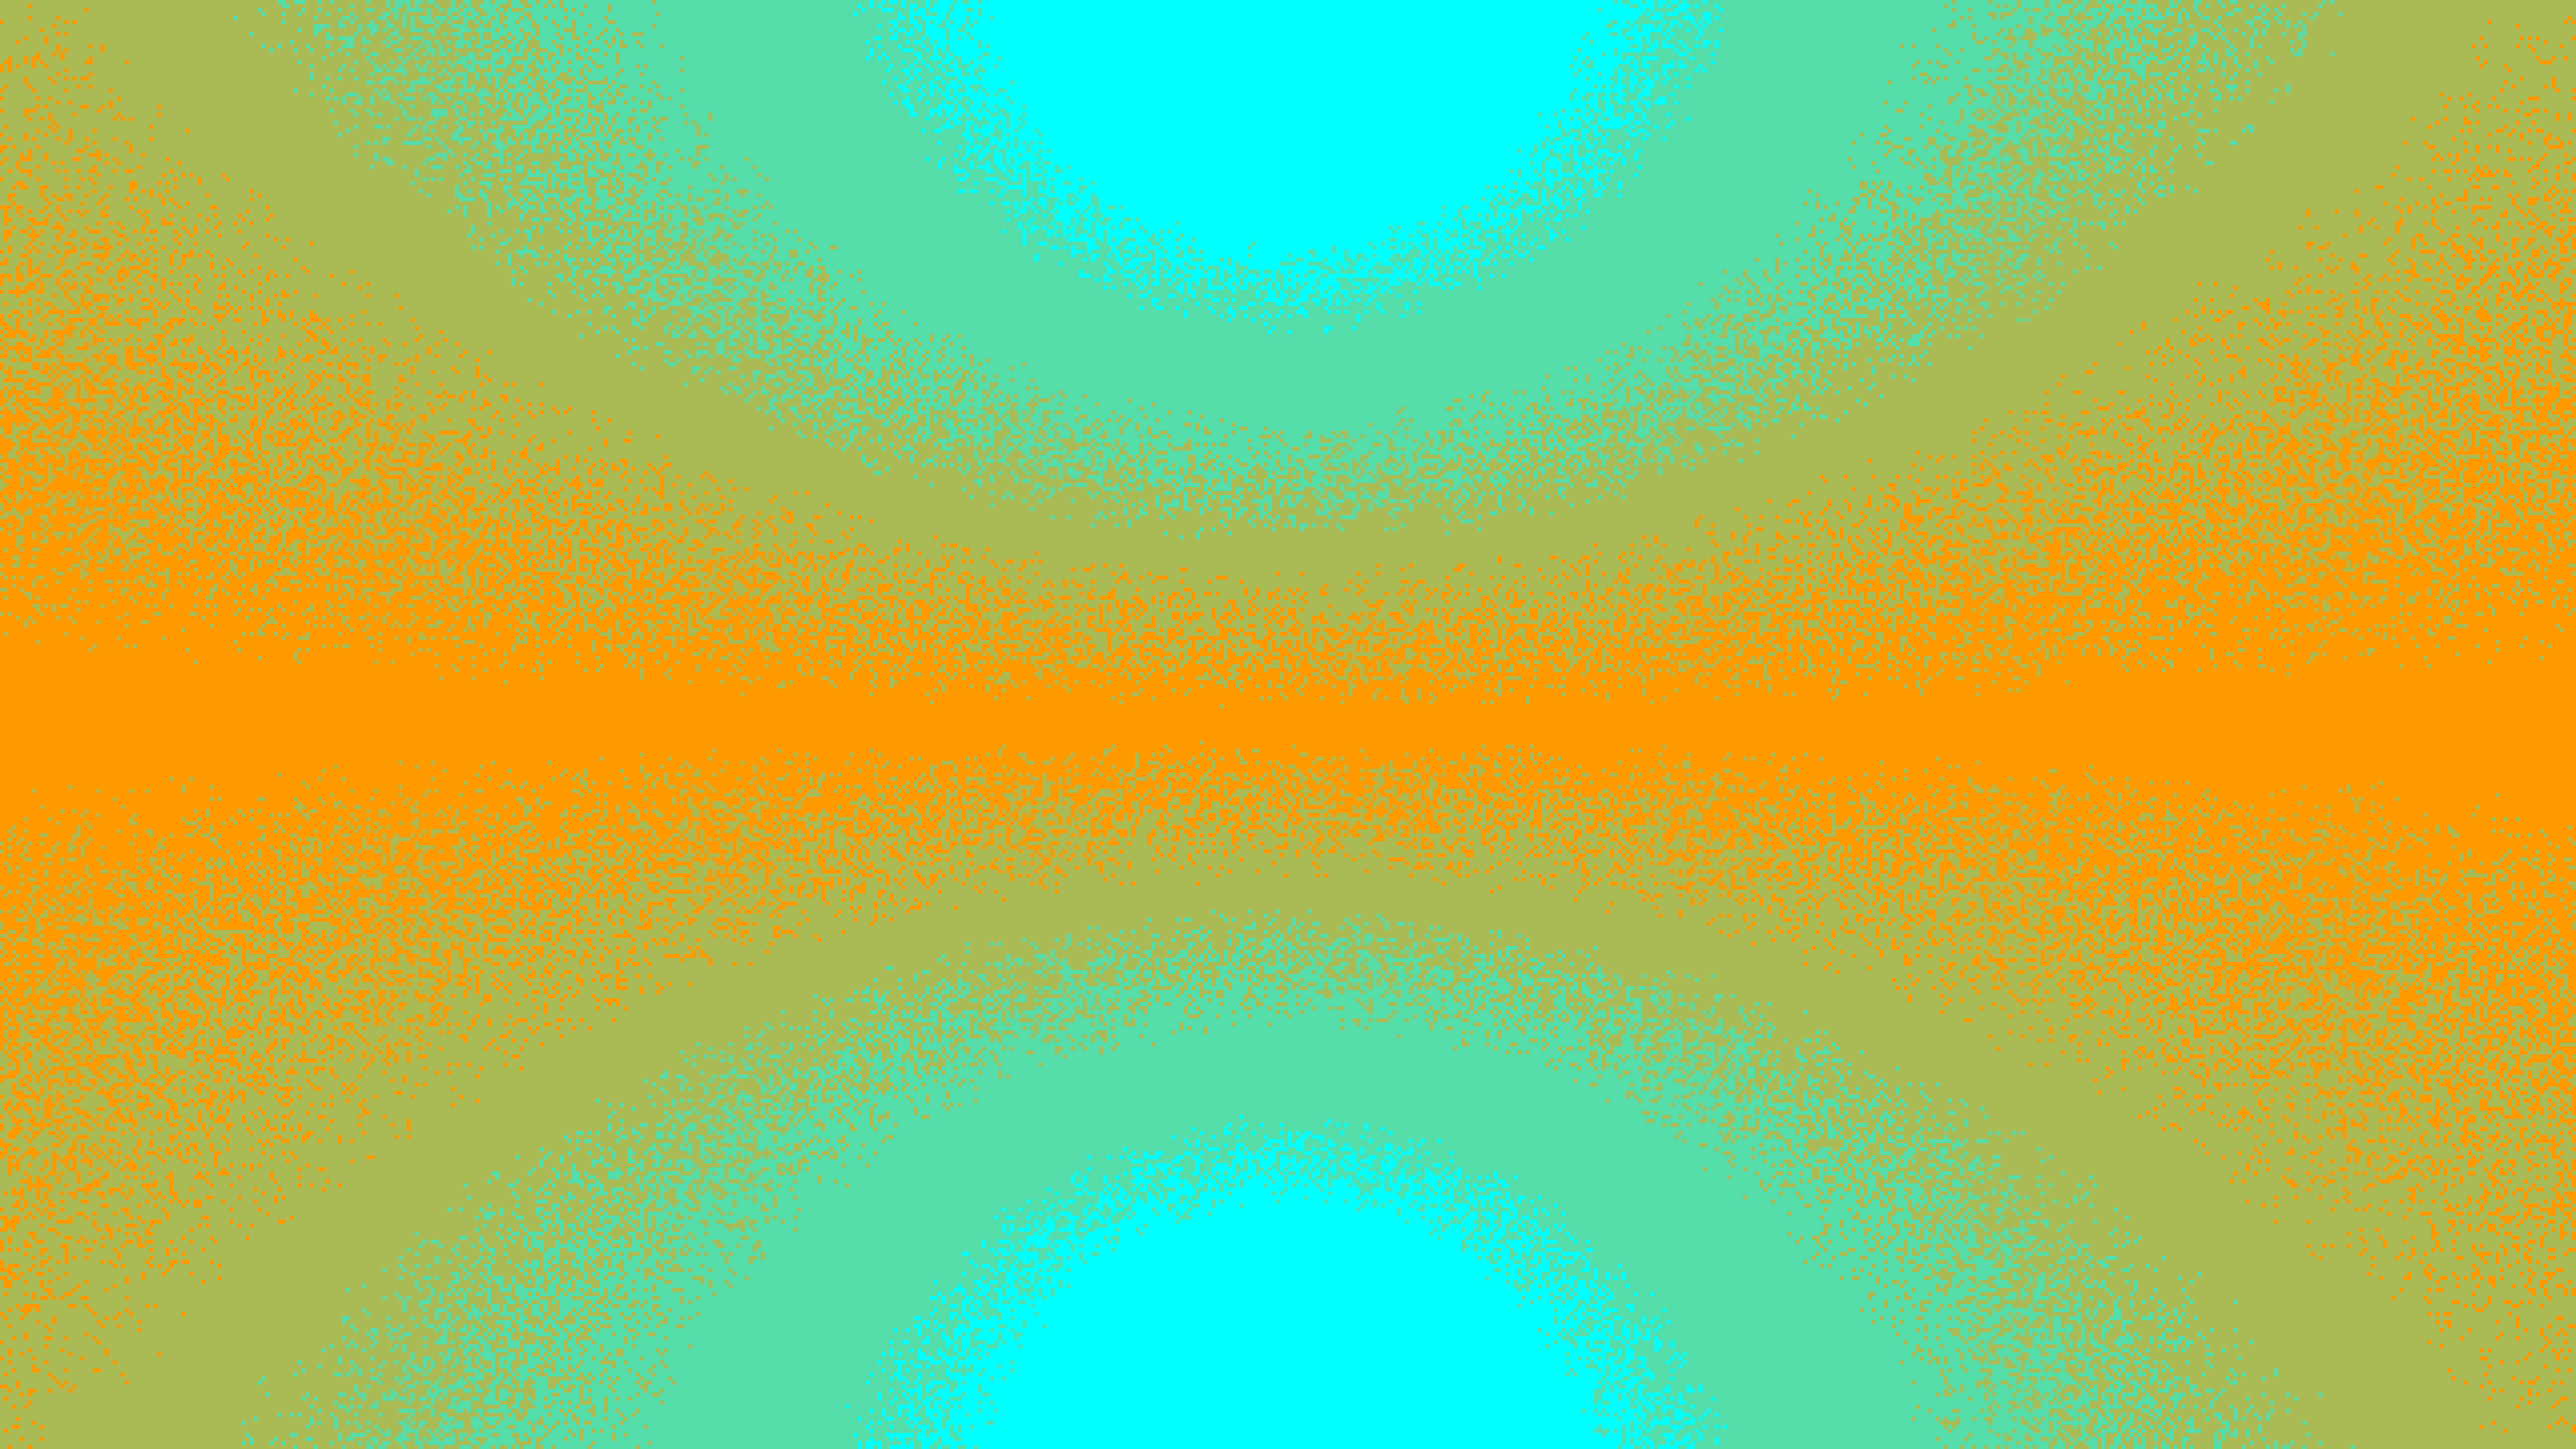
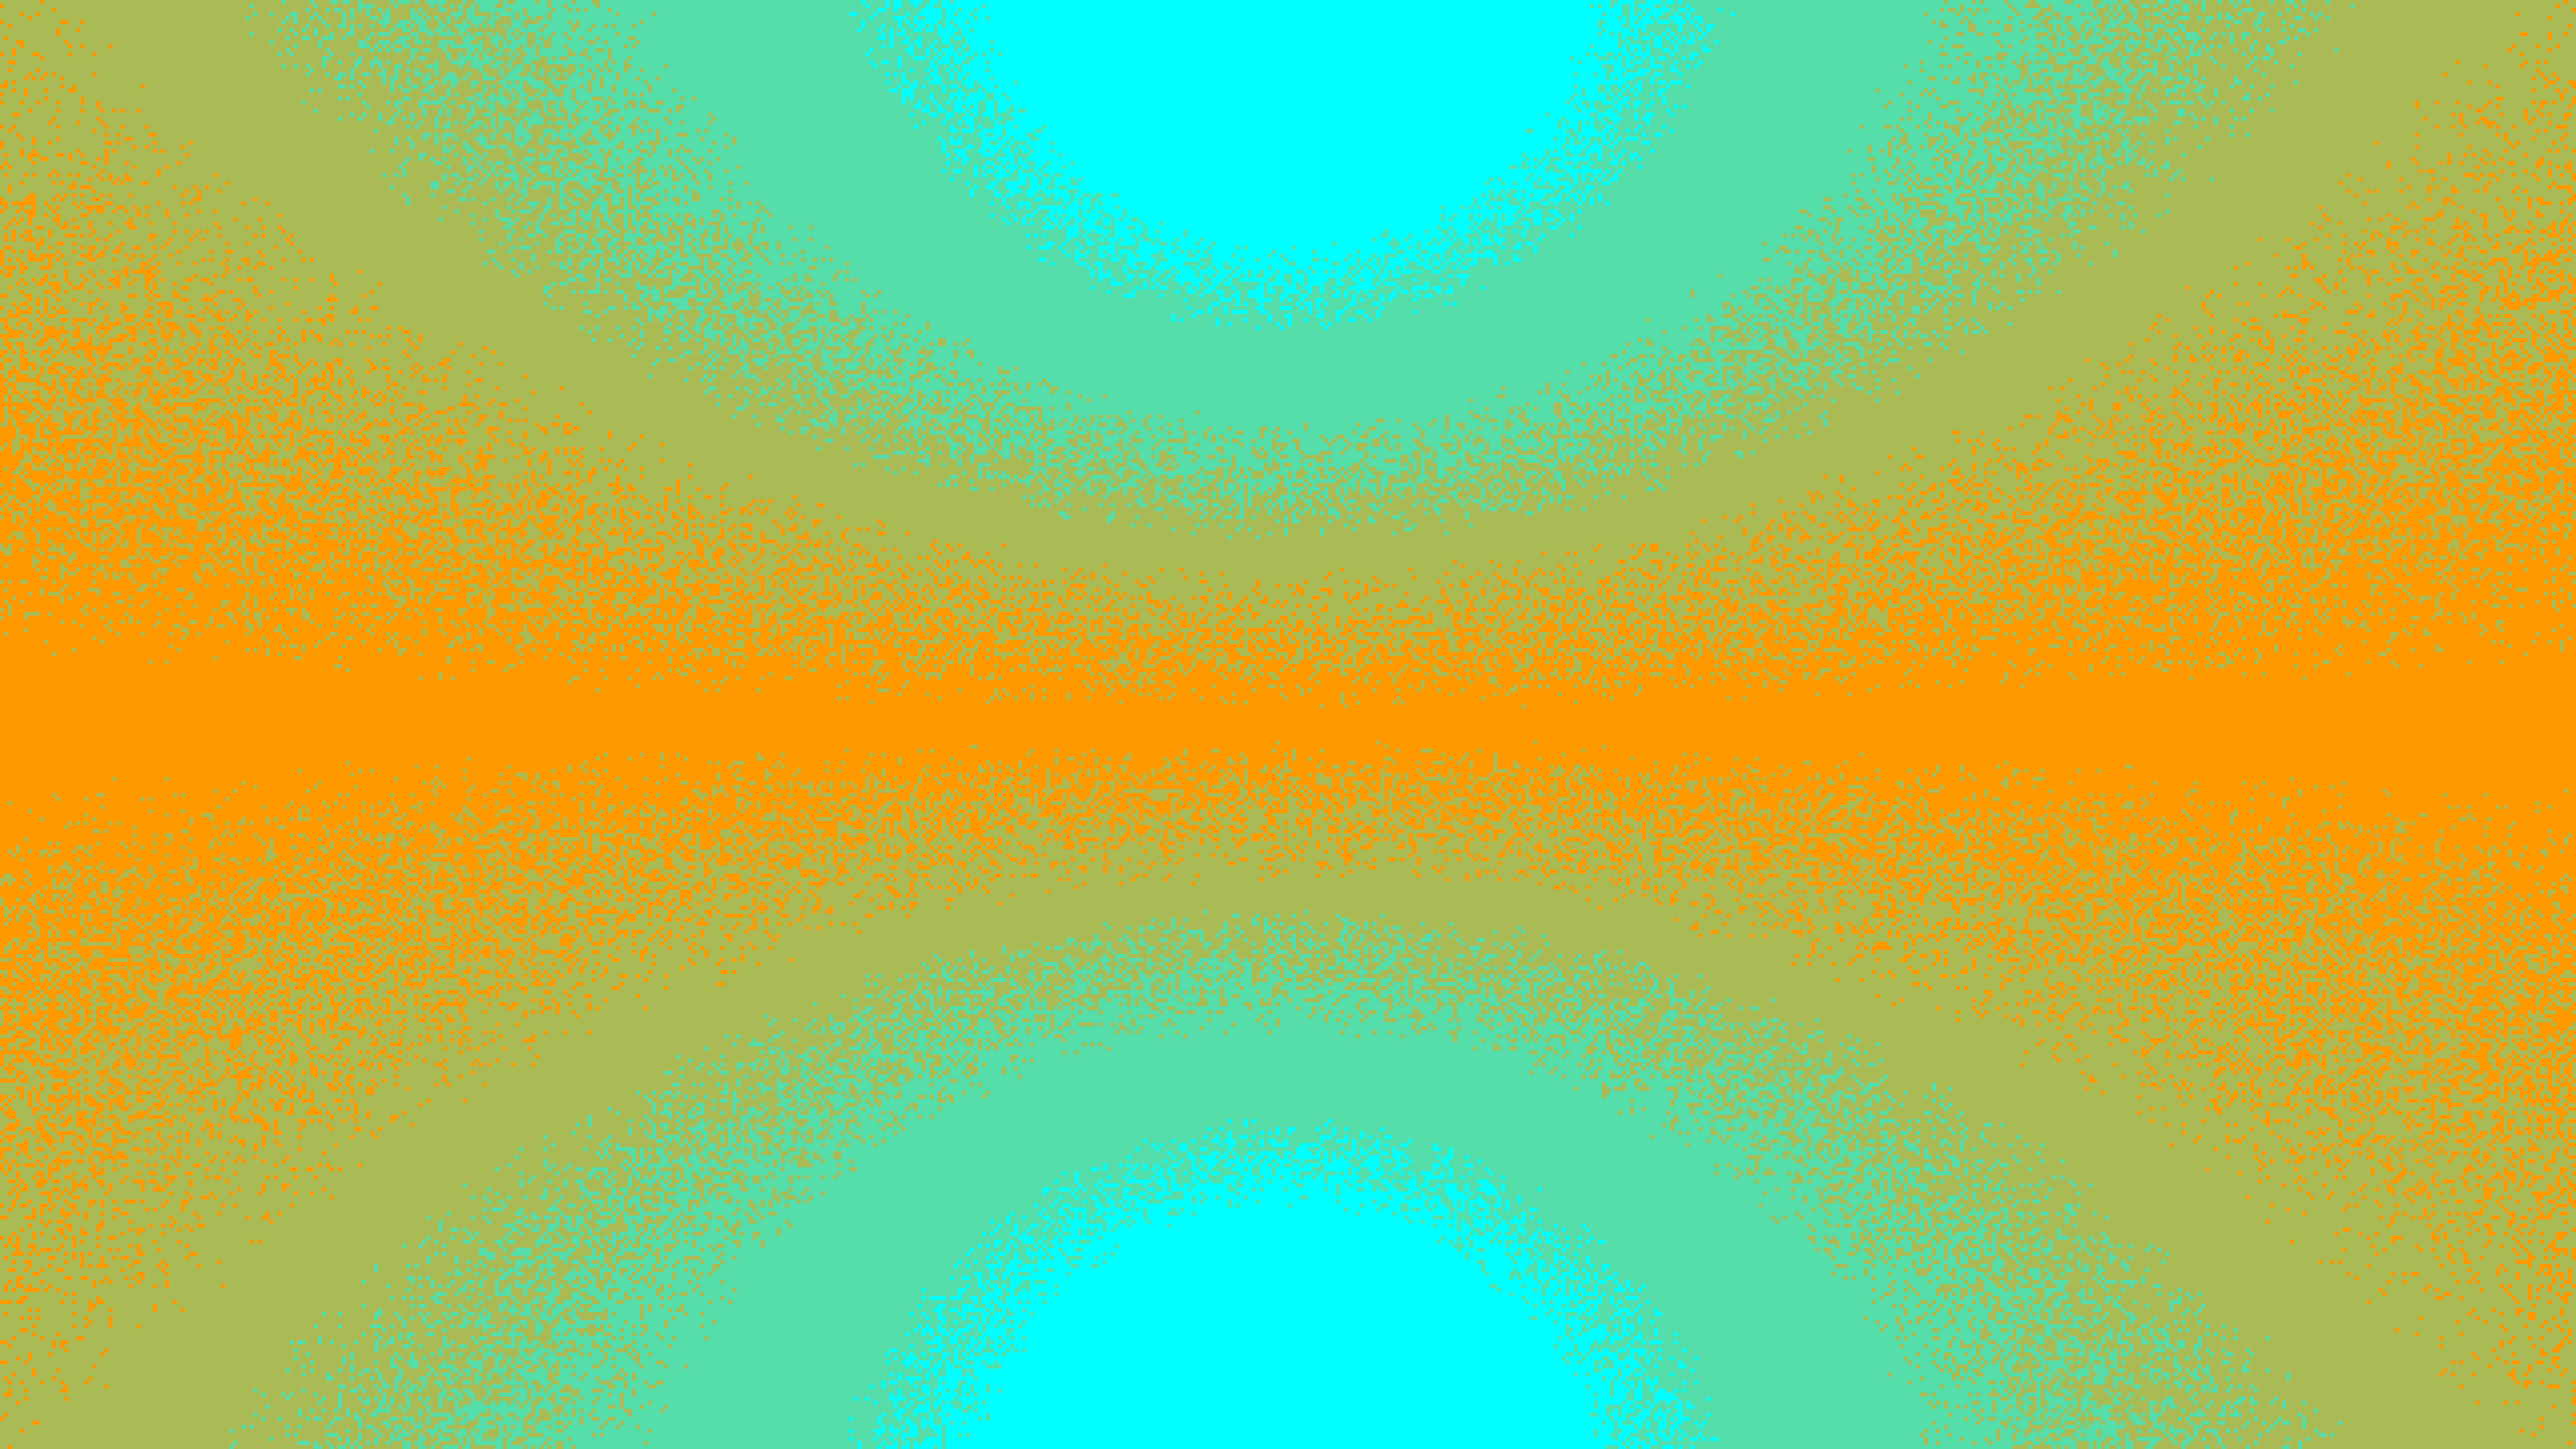
Shadow work and playing state start

Changed region(s): [[0.0, 0.0, 1.0, 1.0], [0.3125, 0.7778, 0.6562, 1.0], [0.3438, 0.0, 0.6875, 0.2178]]

diff --git a/src/com/redsquare/citizen/game_states/menu_elements/MenuStateCode.java b/src/com/redsquare/citizen/game_states/menu_elements/MenuStateCode.java
@@ -7,7 +7,8 @@ import java.util.Set;
 
 public enum MenuStateCode {
   MAIN, WORLD_CONFIG, QUIT_ARE_YOU_SURE, QUIT,
-  PLAYER_CONFIG;
+  PLAYER_CONFIG,
+  START_GAME;
 
   public Set<MenuElement> generateElements(MenuStateCode sender) {
     // TODO
@@ -68,10 +69,11 @@ public enum MenuStateCode {
                         Race.DARKEST, Race.LIGHTEST),
                 skinColor,
 
+                // TODO: temp
                 TextMenuElement.temp("RANDOM",
-                        new Point(1180, 50), MAIN),
+                        new Point(1180, 50), START_GAME),
                 TextMenuElement.temp("ADVANCE",
-                        new Point(1180, 670), MAIN)
+                        new Point(1180, 670), START_GAME)
         );
       case QUIT_ARE_YOU_SURE:
         return Set.of(
@@ -86,6 +88,12 @@ public enum MenuStateCode {
         return Set.of(
                 BehavioralMenuElement.generate(
                         BehavioralMenuElement.Behaviour.QUIT, new Object[0])
+        );
+      case START_GAME:
+        return Set.of(
+                BehavioralMenuElement.generate(
+                        BehavioralMenuElement.Behaviour.START_GAME,
+                        new Object[0])
         );
       default:
         return Set.of();

diff --git a/src/com/redsquare/citizen/game_states/PlayingGameState.java b/src/com/redsquare/citizen/game_states/PlayingGameState.java
@@ -1,6 +1,8 @@
 package com.redsquare.citizen.game_states;
 
+import com.redsquare.citizen.GameDebug;
 import com.redsquare.citizen.InputHandler;
+import com.redsquare.citizen.config.WorldConfig;
 import com.redsquare.citizen.entity.Player;
 import com.redsquare.citizen.worldgen.World;
 
@@ -12,12 +14,14 @@ public final class PlayingGameState extends GameState {
   private final Player player;
 
   private PlayingGameState() {
-    world = World.safeCreate(World.DEFAULT_WIDTH,
-            World.DEFAULT_HEIGHT, 30, 20);
+    int x = WorldConfig.getXDim();
+    int y = (x * 9) / 16;
+    world = World.safeCreate(x, y, WorldConfig.getPlateCount(), 20);
     player = Player.temp();
   }
 
   public static PlayingGameState init() {
+    GameDebug.printDebug("Initialising \"playing\" game state...");
     return new PlayingGameState();
   }
 

diff --git a/src/com/redsquare/citizen/testing/ShadowTester.java b/src/com/redsquare/citizen/testing/ShadowTester.java
@@ -5,7 +5,7 @@ import java.awt.image.BufferedImage;
 
 class ShadowTester {
   private static final int LOWER_LIMIT = 55;
-  private static final int SHADOW_START = 33;
+  private static final int SHADOW_START = 37;
   private static final int Y_RANGE = LOWER_LIMIT - SHADOW_START;
 
   // TODO: DELETE OR refactor into solution
@@ -28,7 +28,7 @@ class ShadowTester {
           int putY = SHADOW_START + (int)(((y - 3) /
                   (double)(LOWER_LIMIT - 3)) * Y_RANGE);
           int width = (int)(38 * ((putY - SHADOW_START) / (double)Y_RANGE));
-          int point = 69 - 5 * time;
+          int point = 63 - 5 * time;
           int startX = point + (int)((20 - point) *
                   (1 - ((LOWER_LIMIT - y) / (double)(LOWER_LIMIT - 3))));
           int putX = startX + (int)(((x - 20) / (double)(58 - 20)) * width);

diff --git a/src/com/redsquare/citizen/game_states/menu_elements/BehavioralMenuElement.java b/src/com/redsquare/citizen/game_states/menu_elements/BehavioralMenuElement.java
@@ -1,5 +1,6 @@
 package com.redsquare.citizen.game_states.menu_elements;
 
+import com.redsquare.citizen.GameManager;
 import com.redsquare.citizen.InputHandler;
 import com.redsquare.citizen.game_states.MenuGameState;
 
@@ -24,7 +25,7 @@ public class BehavioralMenuElement extends MenuElement {
   }
 
   public enum Behaviour {
-    QUIT
+    QUIT, START_GAME
   }
 
   @Override
@@ -33,6 +34,10 @@ public class BehavioralMenuElement extends MenuElement {
       case QUIT:
         // TODO: proper close
         System.exit(0);
+        break;
+      case START_GAME:
+        GameManager.get().initPlaying();
+        GameManager.get().setGameState(GameManager.PLAYING);
         break;
     }
   }

diff --git a/src/com/redsquare/citizen/GameManager.java b/src/com/redsquare/citizen/GameManager.java
@@ -28,13 +28,17 @@ public class GameManager {
     // TODO - PAUSE, MENU, & PERHAPS MORE
   }
 
-  static GameManager get() {
+  public static GameManager get() {
     return instance;
   }
 
   static GameManager init() {
     instance = new GameManager();
     return instance;
+  }
+
+  public void initPlaying() {
+    states[PLAYING] = PlayingGameState.init();
   }
 
   void update() {

diff --git a/tests/com/redsquare/citizen/testing/ShadowTests.java b/tests/com/redsquare/citizen/testing/ShadowTests.java
@@ -18,7 +18,7 @@ public class ShadowTests {
 
     try {
       BufferedImage sprite =
-              ImageIO.read(new File("res/test_resources/shadows/sprite4.png"));
+              ImageIO.read(new File("res/test_resources/shadows/example.png"));
 
       for (int i = 0; i <= 12; i++) {
         BufferedImage atTime = new BufferedImage(sprite.getWidth(),

diff --git a/src/com/redsquare/citizen/systems/language/WordVocabulary.java b/src/com/redsquare/citizen/systems/language/WordVocabulary.java
@@ -13,9 +13,6 @@ public class WordVocabulary {
     semanticDictionary = new HashMap<>();
 
     generateVocabulary(v);
-
-    GameDebug.printMessage("Vocabulary construction complete",
-            GameDebug::printDebug);
   }
 
   static WordVocabulary generate(Phonology v) {
